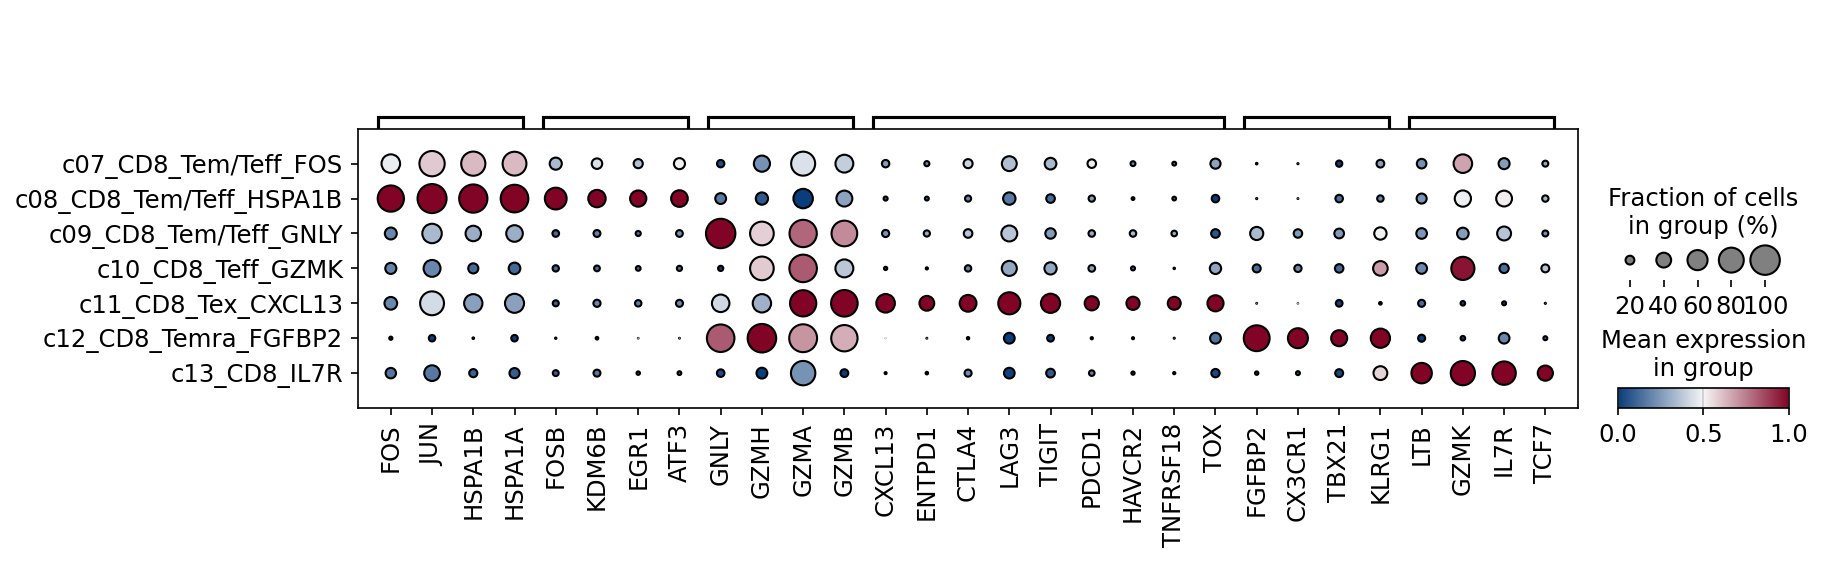
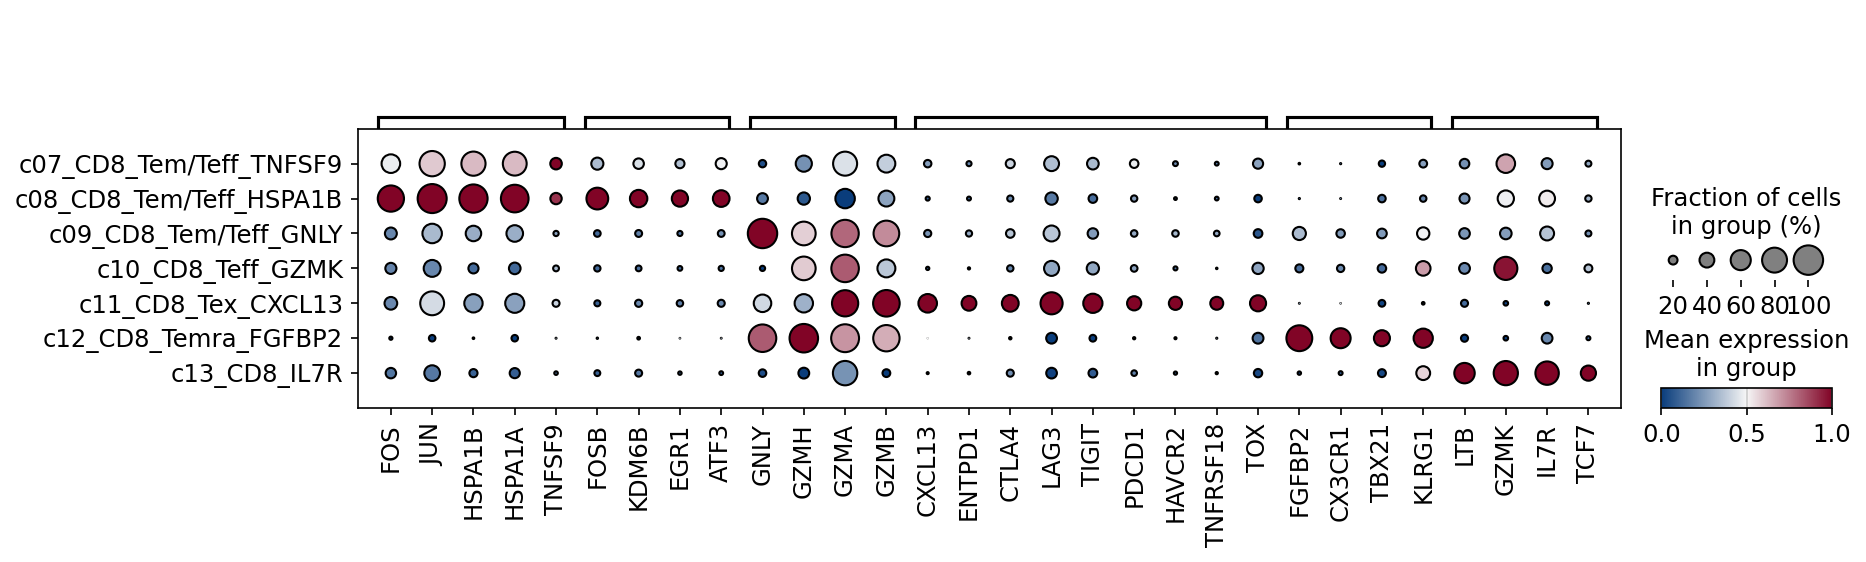
tht

diff --git a/Notebook_THT/探索过程/第二次亚群注释-B细胞.md b/Notebook_THT/探索过程/第二次亚群注释-B细胞.md
@@ -99,11 +99,11 @@ sc.pl.rank_genes_groups_dotplot(
 
 ```
 <img src="..\figures\dotplot_1118_B_top10gene.png">
-0和2群也分不开
 
 ### 添加最终注释
-0:Bn markergene是"MS4A1","TCL1A","FCER2","IGHD","IGHM","BACH2"
-1,2:Bm markergenes是"TNFRSF13B,"CXCR5","ZNF331"
+0:Bm markergene是"TUBA1A",
+1:Bn markergene是"MS4A1","TCL1A","FCER2","IGHD","IGHM","BACH2"
+2:Bm markergenes是"CHORDC1","PPP1R16B","CIITA","TNFRSF13B,"CXCR5",
 其它:Plasma cell markergenes是"MZB1","XBP1"
 
 
@@ -112,20 +112,20 @@ adata = sc.read("RData/B cell__umapmd1.2.h5ad")
 adata = adata[adata.obs.leiden_res0_8 != '8'].copy()
 adata = adata[adata.obs.leiden_res0_8 != '14'].copy()
 cl_annotation = {
-        "0": "c19_Bm_TNFRSF13B",
+        "0": "c20_Bm_TUBA1A",
         "1": "c18_Bn_TCL1A",
         "2": "c19_Bm_TNFRSF13B",
-        "3": "c20_Bp_MZB1",
-        "4": "c20_Bp_MZB1",
-        "5": "c20_Bp_MZB1",
-        "6": "c20_Bp_MZB1",
-        "7": "c20_Bp_MZB1",
-        "9": "c20_Bp_MZB1",
-        "10": "c20_Bp_MZB1",
-        "11": "c20_Bp_MZB1",
-        "12": "c20_Bp_MZB1",
-        "13": "c20_Bp_MZB1",
-        "15": "c20_Bp_MZB1"
+        "3": "c21_Bp_MZB1",
+        "4": "c21_Bp_MZB1",
+        "5": "c21_Bp_MZB1",
+        "6": "c21_Bp_MZB1",
+        "7": "c21_Bp_MZB1",
+        "9": "c21_Bp_MZB1",
+        "10": "c21_Bp_MZB1",
+        "11": "c21_Bp_MZB1",
+        "12": "c21_Bp_MZB1",
+        "13": "c21_Bp_MZB1",
+        "15": "c21_Bp_MZB1"
     }
 adata.obs["minor_celltype"]=adata.obs.leiden_res0_8.map(cl_annotation)
 adata.write("RData/B_annotated.h5ad")
@@ -142,28 +142,29 @@ palette = {
      "c18":"#5BA0D4",
      "c19":"#5AA452",
      "c20":"#F29696",
+     "c21":"#D8432E"
 }
 cl_annotation = {
-        "0": "c19",
+        "0": "c20",
         "1": "c18",
         "2": "c19",
-        "3": "c20",
-        "4": "c20",
-        "5": "c20",
-        "6": "c20",
-        "7": "c20",
-        "9": "c20",
-        "10": "c20",
-        "11": "c20",
-        "12": "c20",
-        "13": "c20",
-        "15": "c20"
+        "3": "c21",
+        "4": "c21",
+        "5": "c21",
+        "6": "c21",
+        "7": "c21",
+        "9": "c21",
+        "10": "c21",
+        "11": "c21",
+        "12": "c21",
+        "13": "c21",
+        "15": "c21"
     }
 adata.obs["minor_clt"]=adata.obs.leiden_res0_8.map(cl_annotation)
-sc.pl.umap(adata,color="minor_clt",legend_loc="on data",title="B cells\n(n=43183)",palette=palette,save="B.png")
+sc.pl.umap(adata,color="minor_clt",legend_loc="on data",title="B cells\n(n=43183)",palette=palette,save="1119_B.png")
 ```
 <img src="..\figures\umapB.png">
-
+<img src="..\figures\umap1119_B.png">
 
 ### umap sample_site
 ```
@@ -194,8 +195,9 @@ patient_count_by_celltype = adata.obs.groupby('minor_celltype')['Patient_ID'].nu
 
 ### dotplot
 ```
-marker_genes = ["MS4A1","TCL1A","FCER2","IGHD","IGHM","BACH2"
-,"TNFRSF13B","CXCR5","ZNF331",
+marker_genes = ["MS4A1","TCL1A","FCER2","IGHD","IGHM","BACH2",
+"CHORDC1","PPP1R16B","CIITA","TNFRSF13B","CXCR5",
+"TUBA1A",
 "MZB1","XBP1"
 ]
 
@@ -207,20 +209,18 @@ dp = sc.pl.dotplot(
         categories_order = [
           "c18_Bn_TCL1A",
           "c19_Bm_TNFRSF13B",
-          "c20_Bp_MZB1",],
+          "c20_Bm_TUBA1A",
+          "c21_Bp_MZB1",],
         var_names=marker_genes,
         standard_scale="var",
         return_fig=True,
-        var_group_labels="   ",
-        var_group_positions =[(0,5),(6,8),(9,11),],
+        var_group_labels="    ",
+        var_group_positions =[(0,5),(6,10),(11,11),(12,13)],
         cmap = custom_cmap
     )
-dp.style(dot_edge_color='black', dot_edge_lw=1).savefig("plots/1118_dotplot_B.png")
+dp.style(dot_edge_color='black', dot_edge_lw=1).savefig("plots/1119_dotplot_B.png")
 
 ```
 <img src="..\figures\1118_dotplot_B.png">
-
-
-
-
+<img src="..\figures\1119_dotplot_B.png">
 ```

diff --git a/Notebook_THT/探索过程/第二次亚群注释-T细胞.md b/Notebook_THT/探索过程/第二次亚群注释-T细胞.md
@@ -826,7 +826,7 @@ sc.pl.rank_genes_groups_dotplot(
 就res0.8吧，没招了
 
 ### 添加最终注释
-0:Tem/Teff markergene是FOS,JUN
+0:Tem/Teff markergene是TNFSF9,FOS,JUN
 4:Tem/Teff markergene是FOS,JUN,FOSB,KDM6B,ERG1,ATF3
 3:Tem/Teff GNLY,GZMH,GZMA,GZMB
 5:Tex "PDCD1", "HAVCR2", "LAG3", "LAYN", "TIGIT", "ENTPD1", "CXCL13", "CTLA4", "TNFRSF18", "TOX"
@@ -837,7 +837,7 @@ sc.pl.rank_genes_groups_dotplot(
 ```
 adata = sc.read("RData/CD8+T__umapmd0.4_filterepi_regressoutmtribo.h5ad")
 cl_annotation = {
-        "0": "c07_CD8_Tem/Teff_FOS",
+        "0": "c07_CD8_Tem/Teff_TNFSF9",
         "4": "c08_CD8_Tem/Teff_HSPA1B",
         "3": "c09_CD8_Tem/Teff_GNLY",
         "2": "c10_CD8_Teff_GZMK",
@@ -908,7 +908,7 @@ sc.pl.umap(adata,color="sample_site",palette=palette,save="CD8T_samplesite.png")
 
 ```
 marker_genes = [
-  "FOS","JUN","HSPA1B","HSPA1A",
+  "FOS","JUN","HSPA1B","HSPA1A","TNFSF9",
   "FOSB","KDM6B","EGR1","ATF3",
   "GNLY","GZMH","GZMA","GZMB",
   "CXCL13","ENTPD1","CTLA4","LAG3","TIGIT","PDCD1","HAVCR2","TNFRSF18","TOX",
@@ -920,7 +920,7 @@ custom_cmap = LinearSegmentedColormap.from_list("custom", ["#0A3D7C", "#F6F6F6",
 dp = sc.pl.dotplot(
         adata,
         groupby="minor_celltype",
-        categories_order = ["c07_CD8_Tem/Teff_FOS",
+        categories_order = ["c07_CD8_Tem/Teff_TNFSF9",
         "c08_CD8_Tem/Teff_HSPA1B",
         "c09_CD8_Tem/Teff_GNLY",
         "c10_CD8_Teff_GZMK",
@@ -931,8 +931,8 @@ dp = sc.pl.dotplot(
         standard_scale="var",
         return_fig=True,
         var_group_labels="      ",
-        var_group_positions = [(0,3),(4,7),(8,11),
-        (12,20),(21,24),(25,28)],
+        var_group_positions = [(0,4),(5,8),(9,12),
+        (13,21),(22,25),(26,29)],
         cmap = custom_cmap
     )
 dp.style(dot_edge_color='black', dot_edge_lw=1).savefig("plots/1118_dotplot_CD8T.png")

diff --git a/Notebook_THT/探索过程/第二次亚群注释-髓系.md b/Notebook_THT/探索过程/第二次亚群注释-髓系.md
@@ -157,7 +157,21 @@ cl_annotation = {
     "11": "c26_cDC1/cDC3_LAMP3",
 }
 adata.obs["minor_celltype"]=adata.obs.leiden_res0_8.map(cl_annotation)
-adata.write("RData/Myeloid_annotated.h5ad")
+cl_annotation = {
+    "0": "Mono_Macro",
+    "1": "Mono_Macro",
+    "2": "Mono_Macro",
+    "3": "Mono_Macro",
+    "4": "Mono_Macro",
+    "5":"Mast",
+    "6": "DC",
+    "7": "Mono_Macro",
+    "8": "Mono_Macro",
+    "9": "DC",
+    "11": "DC",
+}
+adata.obs["myeloid_celltype"]=adata.obs.leiden_res0_8.map(cl_annotation)
+adata.write("RData/Myeloid_1stround_annotated.h5ad")
 ```
 
 ### umap clt
@@ -259,3 +273,8 @@ dp = sc.pl.dotplot(
 dp.style(dot_edge_color='black', dot_edge_lw=1).savefig("plots/1118_dotplot_Myeloid.png")
 ```
 <img src="..\figures\1118_dotplot_Myeloid.png">
+
+### 和傅师兄讨论了下，髓系要分成Mono/Macro,DC以及Mast单独聚类分析
+```
+adata = sc.read("RData/Myeloid_annotated.h5ad")
+```

diff --git a/Notebook_THT/探索过程/亚群注释-髓系.md b/Notebook_THT/探索过程/亚群注释-髓系.md
@@ -330,3 +330,8 @@ sc.pl.dotplot(
 <img src="..\figures\umapMyesubset_anno.png">
 * 最终dotplot
 <img src="..\figures\dotplot_Myeloidsubset.png">
+
+### 和傅师兄讨论了下，髓系要分成Mono/Macro,DC以及Mast单独聚类分析
+```
+adata = sc.read("RData/Myeloid_final_anno.h5ad")
+```
